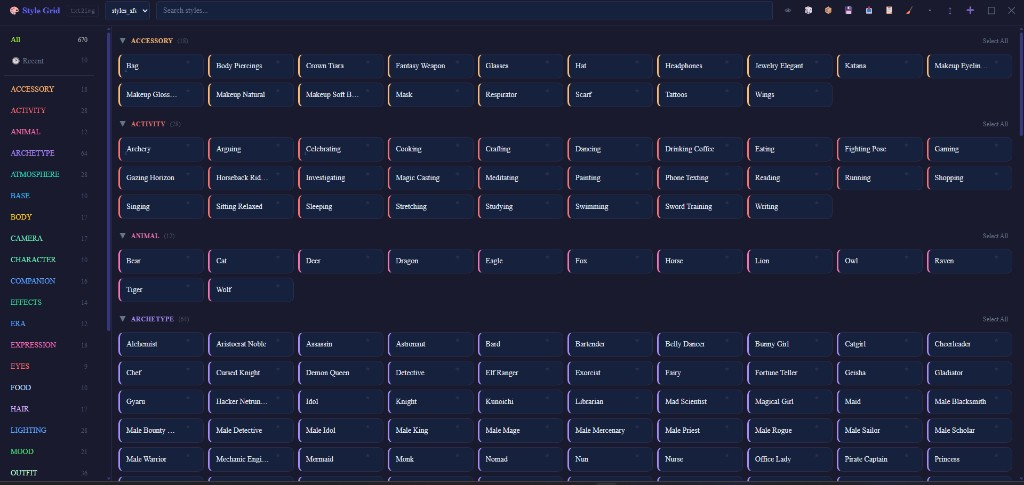
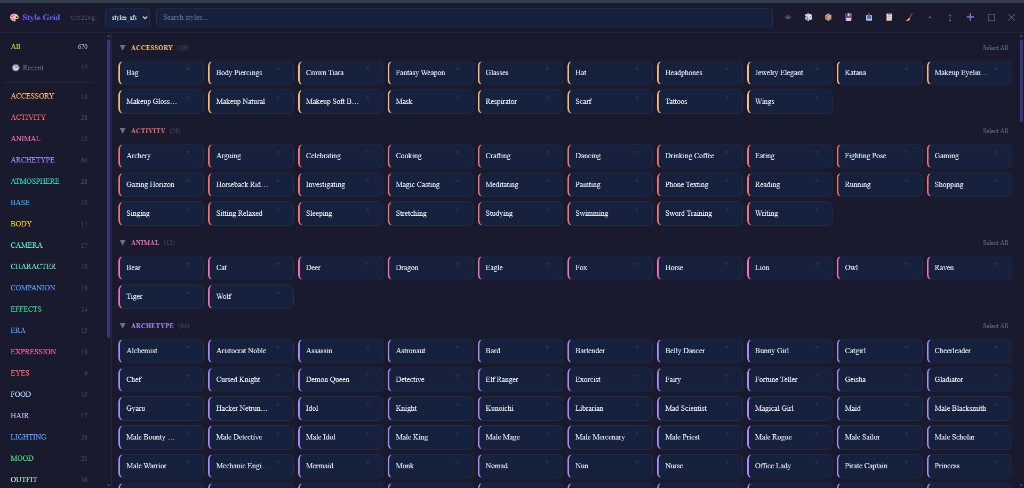
feat: enhance linting and documentation for improved development experience
- Added a new linting command for the UI component directory to the package.json.
- Updated README to include search and autocomplete functionality details with a new screenshot.
- Expanded the DEVELOPMENT.md file to clarify testing procedures and included a new section on testing layers.
- Cleaned up the StyleCard component by removing unused favorite button code.
- Adjusted the StyleGrid component to simplify the filtered styles logic.
- Minor formatting and comment improvements in Python and JavaScript files.

diff --git a/ui/src/components/StyleGrid.tsx b/ui/src/components/StyleGrid.tsx
@@ -1,4 +1,4 @@
-import { useMemo, useState } from 'react'
+import { useState } from 'react'
 import { motion, AnimatePresence } from 'framer-motion'
 import { sendToHost } from '../bridge'
 import { getCategoryColor, useStylesStore } from '../store/stylesStore'
@@ -6,9 +6,9 @@ import { StyleCard } from './StyleCard'
 
 export function StyleGrid({ windowed = false }: { windowed?: boolean }) {
   const {
-    filteredStyles, activeCategory, activeSource, compactMode,
+    filteredStyles, activeCategory, compactMode,
     collapsedCategories, toggleCollapse,
-    selectedStyles, selectAllInCategory, search, styles
+    selectedStyles, selectAllInCategory
   } = useStylesStore()
   const [catMenu, setCatMenu] = useState<{
     x: number
@@ -17,10 +17,7 @@ export function StyleGrid({ windowed = false }: { windowed?: boolean }) {
     missingCount: number
   } | null>(null)
 
-  const filtered = useMemo(
-    () => filteredStyles(),
-    [filteredStyles, styles, search, activeCategory, activeSource]
-  )
+  const filtered = filteredStyles()
 
   if (filtered.length === 0) {
     return (

diff --git a/ui/src/components/StyleCard.tsx b/ui/src/components/StyleCard.tsx
@@ -102,15 +102,7 @@ export const StyleCard = memo(function StyleCard({ style, windowed = false }: Pr
             borderLeftWidth: '3px'
           }}
         >
-          {/* Favorite star */}
-          <button
-            type="button"
-            onClick={e => { e.stopPropagation(); toggleFavorite(style.name) }}
-            className={`absolute top-1.5 right-6 text-xs transition-colors z-10
-              ${fav ? 'text-yellow-400' : 'text-sg-border hover:text-sg-muted'}`}
-          >★</button>
-
-          <div className={`${windowed ? 'text-xs' : 'text-sm'} font-medium text-sg-text truncate ${windowed ? 'pr-6' : 'pr-8'}`}>
+          <div className={`${windowed ? 'text-xs' : 'text-sm'} font-medium text-sg-text truncate`}>
             {displayName}
           </div>
 

diff --git a/javascript/style_grid.js b/javascript/style_grid.js
@@ -3898,12 +3898,6 @@
                     .then(function (r) { return r.json(); })
                     .then(function (data) {
                         var allStyles = Array.isArray(data) ? data : Object.values(data.categories || {}).flat();
-                        var seen = new Set();
-                        var deduped = allStyles.filter(function (s) {
-                            if (seen.has(s.name)) return false;
-                            seen.add(s.name);
-                            return true;
-                        });
                         state[tab].categories = {};
                         allStyles.forEach(function (s) {
                             var cat = s.category || "OTHER";

diff --git a/tests/test_wildcards.py b/tests/test_wildcards.py
@@ -1,0 +1,34 @@
+"""Tests for stylegrid.wildcards.resolve_sg_wildcards (generation-time {sg:...} tokens)."""
+from unittest.mock import patch
+
+from stylegrid.wildcards import resolve_sg_wildcards
+
+
+def test_replaces_with_random_style_prompt():
+    styles_by = {
+        "accessory": [
+            {"prompt": "picked_prompt"},
+            {"prompt": "other"},
+        ]
+    }
+    with patch("stylegrid.wildcards.random.choice", lambda seq: seq[0]):
+        assert resolve_sg_wildcards("prefix {sg:accessory} suffix", styles_by) == (
+            "prefix picked_prompt suffix"
+        )
+
+
+def test_unknown_category_leaves_token():
+    styles_by = {"animal": [{"prompt": "x"}]}
+    assert resolve_sg_wildcards("{sg:missing}", styles_by) == "{sg:missing}"
+
+
+def test_category_match_is_case_insensitive():
+    styles_by = {"accessory": [{"prompt": "low"}]}
+    with patch("stylegrid.wildcards.random.choice", lambda seq: seq[0]):
+        assert resolve_sg_wildcards("{sg:ACCESSORY}", styles_by) == "low"
+
+
+def test_empty_prompt_falls_back_to_original_token():
+    styles_by = {"x": [{"prompt": ""}]}
+    with patch("stylegrid.wildcards.random.choice", lambda seq: seq[0]):
+        assert resolve_sg_wildcards("{sg:x}", styles_by) == "{sg:x}"

diff --git a/scripts/stylegrid/routes.py b/scripts/stylegrid/routes.py
@@ -41,6 +41,7 @@ from stylegrid.thumbnails import (
     thumbnail_generation_manager,
 )
 
+
 def detect_conflicts(style_names):
     styles_map = {s["name"]: s for s in get_cached_styles()}
     conflicts = []

diff --git a/docs/DEVELOPMENT.md b/docs/DEVELOPMENT.md
@@ -28,6 +28,7 @@ flowchart LR
 │  ├─ src/bridge.ts                   # Typed SG_* message contract
 │  ├─ src/store/stylesStore.ts        # Client state/actions/derived filters
 │  └─ src/components/                 # UI building blocks
+├─ tests/                              # pytest (csv_io, routes, wildcards); test_js.html
 ├─ docs/API.md
 ├─ docs/CSV_FORMAT.md
 └─ docs/DEVELOPMENT.md
@@ -78,6 +79,16 @@ sequenceDiagram
 - `data/backups/`: CSV backups.
 
 Client-side localStorage keys are also used for UI state (`favorites`, `recent`, source filter, collapsed categories, etc.).
+
+## Testing
+
+| Layer | How |
+|-------|-----|
+| **Python** | `python -m pytest tests/ -q` — CSV I/O, HTTP routes, `{sg:…}` wildcards (`tests/README.md`). |
+| **JS prompt helpers** | Open `tests/test_js.html` in a browser (no server). |
+| **UI** | Included in root `npm run lint` via `lint:ui` (`npm --prefix ui run lint`). No Jest/Vitest suite yet. |
+
+Gaps worth knowing: React/iframe logic and `javascript/style_grid.js` are not covered by CI automation; regressions are caught by manual QA or future e2e tests.
 
 ## Practical Notes
 

diff --git a/tests/README.md b/tests/README.md
@@ -1,0 +1,29 @@
+# Tests
+
+## Python (pytest)
+
+From the repository root:
+
+```bash
+pip install pytest fastapi starlette httpx
+python -m pytest tests/ -q
+```
+
+| File | Scope |
+|------|--------|
+| `conftest.py` | `sys.path` + stub `modules.shared` for Forge-less imports; shared fixtures `tmp_csv`, `patch_styles_dirs`. |
+| `test_csv_io.py` | `stylegrid.csv_io` parse / save / delete. |
+| `test_routes.py` | FastAPI routes registered by `register_api` (HTTP smoke + save/delete flows). |
+| `test_wildcards.py` | `resolve_sg_wildcards` (`{sg:…}` tokens). |
+
+## Manual JS helpers
+
+Open `tests/test_js.html` in a browser (`file://`). It exercises helpers from `javascript/sg_prompt_utils.js` (and a small copy from `style_grid.js`). No npm build.
+
+## UI (React)
+
+`ui/package.json` defines `lint` only — there is **no** automated unit/component test suite for the V2 iframe UI yet. From the repo root, `npm run lint` runs `lint:ui` (`npm --prefix ui run lint`) together with host JS and Python linters.
+
+## CI
+
+There is no GitHub Actions workflow in this repo; run pytest locally before merging backend changes.

diff --git a/README.md b/README.md
@@ -63,6 +63,14 @@ The small tab badge in the panel header shows the active host context.
 
 ![Browse and filter styles](docs/screenshots/browse-and-filter.png)
 
+### Search and autocomplete
+- Type in the search box to filter cards by style name in real time.
+- A suggestion popup appears while you type and shows matching style names with their category.
+- Use arrow keys + Enter to pick a suggestion quickly, or click the item with mouse.
+- Search respects your current source/category view, so results stay relevant to what is on screen.
+
+![Search with autocomplete suggestions](docs/screenshots/search-autocomplete.png)
+
 ### 2) Apply styles from cards
 - Card click toggles selection and applies/unapplies style.
 - Selected styles are tracked in the bottom selected bar.
